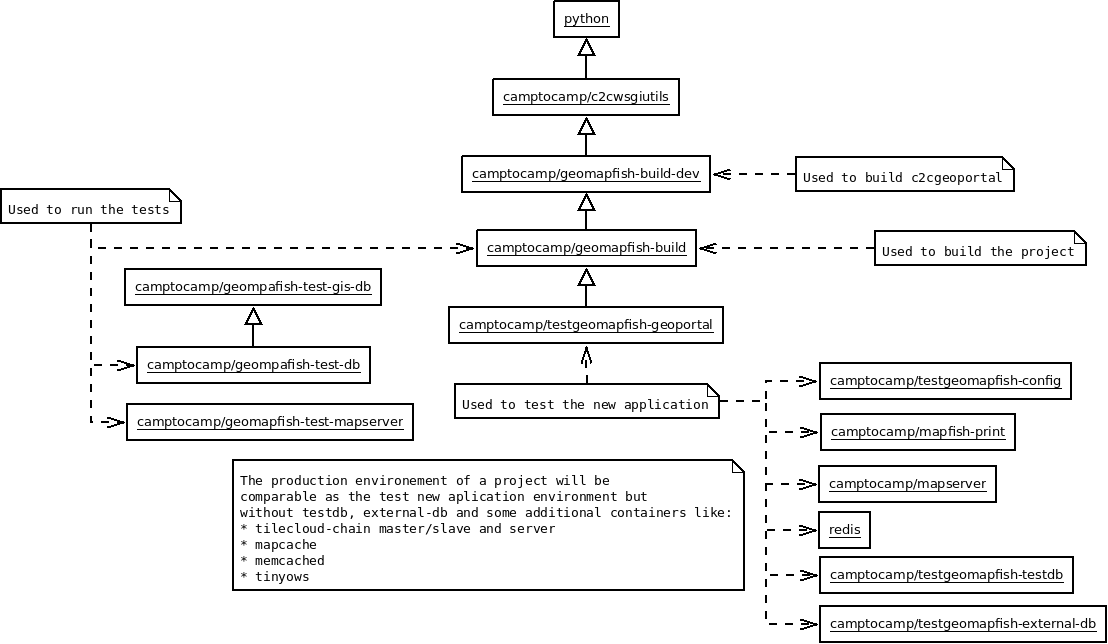
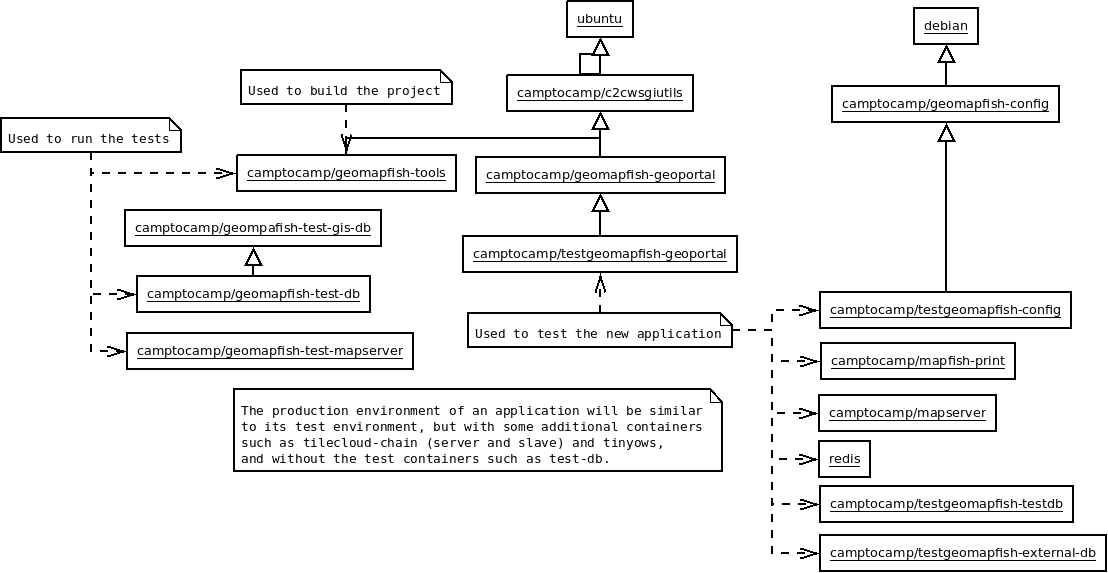
Update the Docker diagrams

diff --git a/doc/integrator/docker.rst b/doc/integrator/docker.rst
@@ -6,8 +6,15 @@ Use Docker to deploy your application
 Architecture schema
 -------------------
 
-.. image:: docker.png
-.. source file is docker.dia.
+For OpenShift projects:
+
+.. image:: docker-openshift.png
+.. source file is docker-openshift.dia.
+
+For stand alone projects:
+
+.. image:: docker-apache.png
+.. source file is docker-apache.dia.
 
 
 Images
